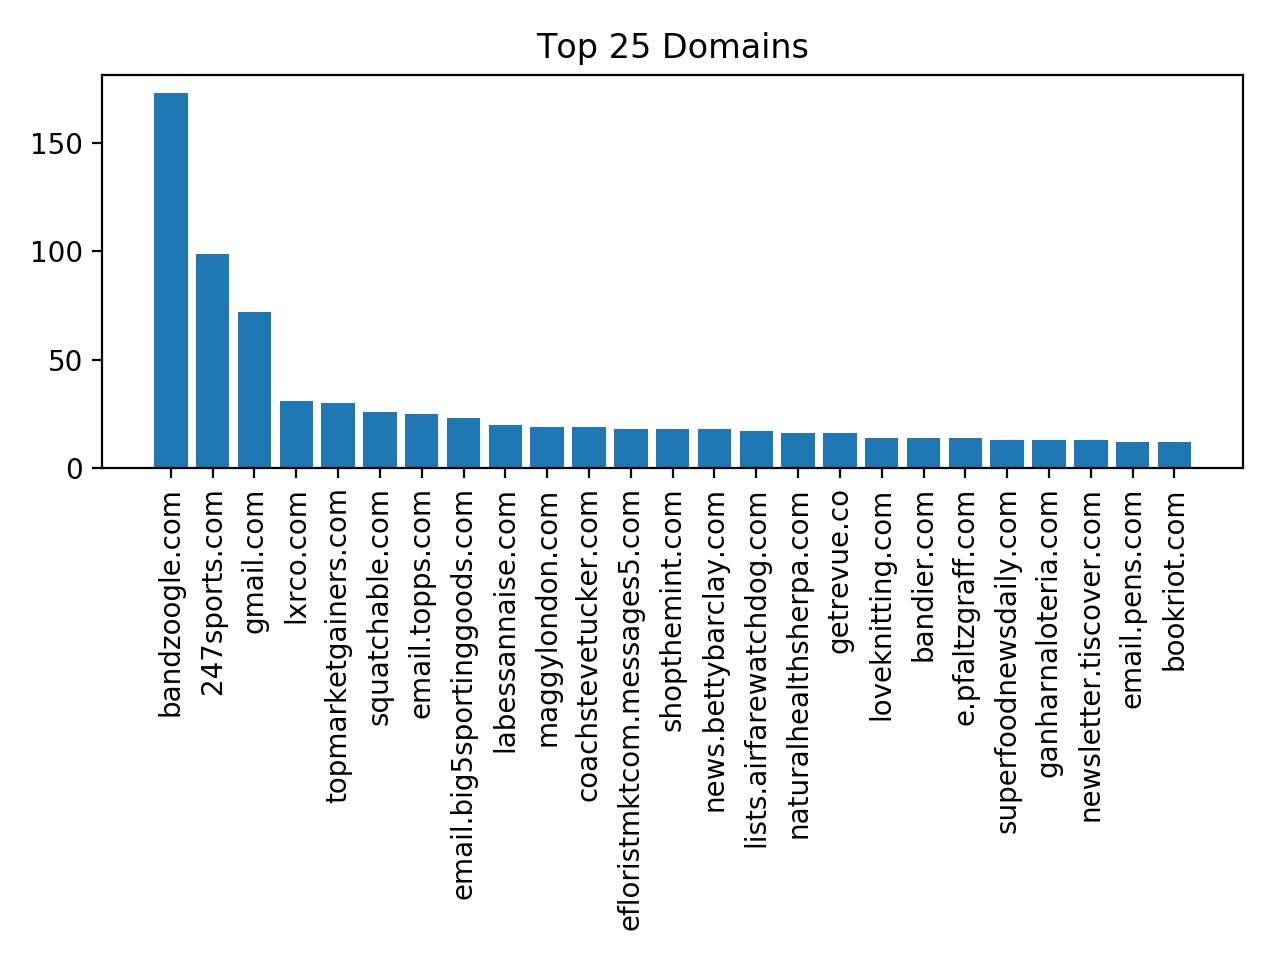
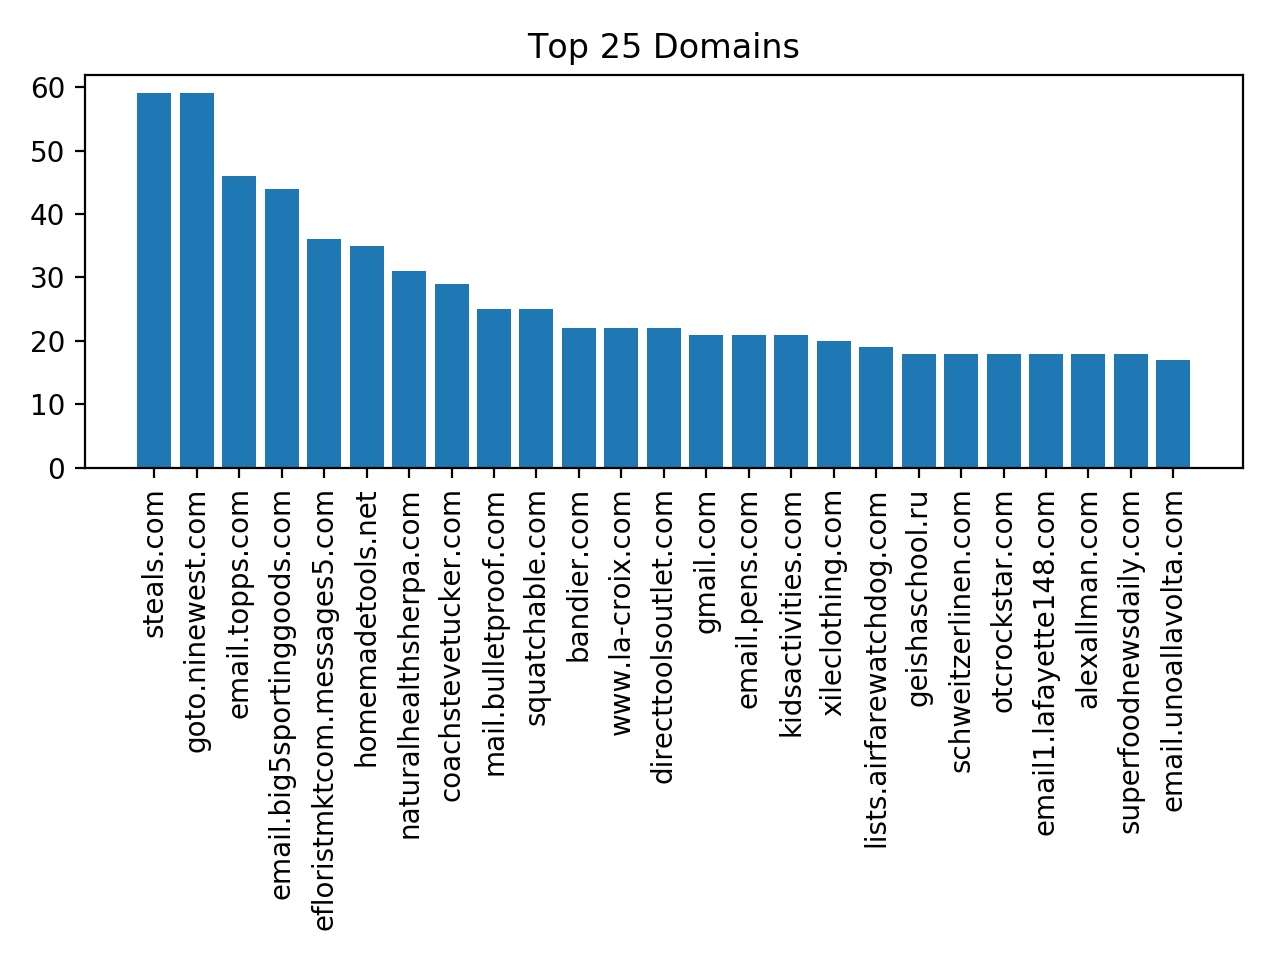
Discard unusable august day1 data

Changed region(s): [[0.0312, 0.0625, 0.9375, 0.9688], [0.4062, 0.0312, 0.625, 0.0625]]

diff --git a/analyze_email_addresses.py b/analyze_email_addresses.py
@@ -7,18 +7,10 @@ from collections import Counter
 
 email_address_regex = r'[\w\.-]+@[\w\.-]+\.\w+'
 
-# started on august 12
-start_epoch_ms = datetime.datetime(2019, 8, 12, 0, 0).timestamp() * 1000
-end_epoch_ms = datetime.datetime(2019, 8, 13, 0, 0).timestamp() * 1000
-
 names = []
 domains = []
 tlds = []
-names_day1 = []
-domains_day1 = []
-tlds_day1 = []
 num_missing = 0
-num_missing_day1 = 0
 with open('data.csv', newline='') as csvfile:
     reader = csv.reader(csvfile)
     next(reader) # skip header
@@ -35,25 +27,15 @@ with open('data.csv', newline='') as csvfile:
             names.append(name)
             domains.append(domain)
             tlds.append(tld)
-            if ms > start_epoch_ms and ms < end_epoch_ms:
-                names_day1.append(name)
-                domains_day1.append(domain)
-                tlds_day1.append(tld)
         else:
             num_missing += 1
-            if ms > start_epoch_ms and ms < end_epoch_ms:
-                num_missing_day1 += 1
 
 print(f'Read {len(names)} email addresses ({num_missing} missing)')
-print(f'Read {len(names_day1)} email addresses ({num_missing_day1} missing)')
 
 
 name_counter = Counter(names)
 domain_counter = Counter(domains)
 tld_counter = Counter(tlds)
-name_counter_day1 = Counter(names_day1)
-domain_counter_day1 = Counter(domains_day1)
-tld_counter_day1 = Counter(tlds_day1)
 
 def saveplot(title, counter, num, filename):
     plt.figure()
@@ -64,8 +46,5 @@ def saveplot(title, counter, num, filename):
     plt.savefig(filename, dpi=200)
 
 saveplot('Top 10 TLDs', tld_counter, 10, 'tld.jpg')
-saveplot('Top 10 TLDs, Day 1', tld_counter_day1, 10, 'tld-day1.jpg')
 saveplot('Top 25 Domains', domain_counter, 25, 'domains.jpg')
-saveplot('Top 25 Domains, Day1', domain_counter_day1, 25, 'domains-day1.jpg')
 saveplot('Top 25 Names', name_counter, 25, 'names.jpg')
-saveplot('Top 25 Names, Day1', name_counter_day1, 25, 'names-day1.jpg')
